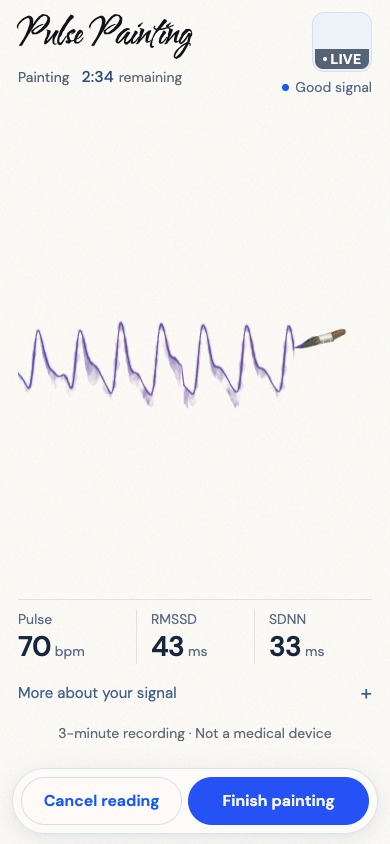
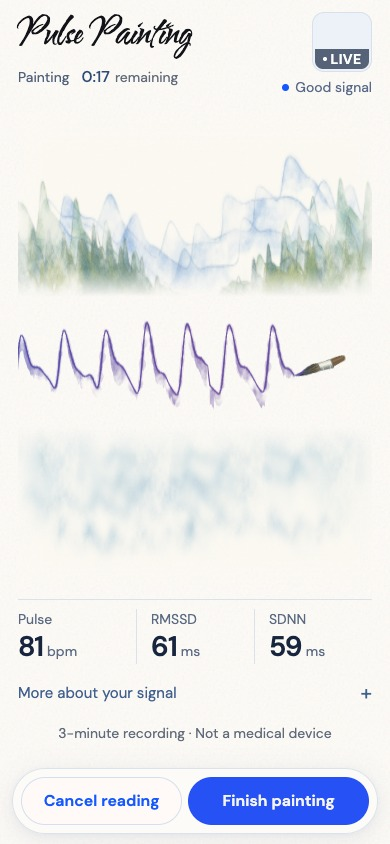
Document emerging landscape release and refreshed capture

diff --git a/docs/validation/emerging-landscape-2026-10-24.md b/docs/validation/emerging-landscape-2026-10-24.md
@@ -19,7 +19,8 @@ canvases, softens their scenic edges, and uses an immutable 256-square pigment
 mask before crossfading for 3.2 seconds. It does not render each stroke again.
 Canvas backing storage is bounded at 3,086,336 pixels. A browser-owned
 256-square pattern may retain another 65,536 pixels, beyond the unchanged
-canonical material budget. These bounds do not claim total browser/GPU memory. Pausing or hiding freezes the presentation; reduced motion uses
+canonical material budget. These bounds do not claim total browser/GPU memory.
+Pausing or hiding freezes the presentation; reduced motion uses
 immediate snapshots. Finishing fades away the atmosphere during the existing
 pullback, then reconstructs the same original measured points into the unchanged
 canonical artwork. Cancellation/disposal clears scheduled work and surfaces.
@@ -32,5 +33,137 @@ adapter, with mocked camera I/O. Stepped-clock tests prove presentation and
 provenance behavior, not timing. CPU throttling and WebKit are browser checks,
 not physical-phone, native-share, physiological, battery or thermal validation.
 
-Release verification is in progress; this document does not yet assert a
-production deployment.
+## Tested source
+
+The local runs below used commit
+`5b113185e3fafccd4c37e1f44ef2e1ed582cc6f2` and renderer SHA-256
[1 lines of base64/hex data omitted]
+The source and served `dist/landscape.js` hashes matched. Each evidence directory
+contains a `run-context.json` recording those identities. The build passed using
+Node v24.21.0 and the existing Three.js 0.186.1 dependency.
+
+Only the presentation in `createView` changed. The model, accepted-source
+adapter, terrain mapping and canonical renderer remain unchanged from the prior
+release. Background progress uses the warmed accepted source prefix; it may be
+ahead of the delayed foreground animation, but never ahead of accepted source.
+These checks do not establish the diagnostic accuracy of the input recording.
+
+## Full WebKit session: passed
+
+Evidence: `.dream-loop/emerging-landscape/final-safari-session/result.json`.
+The run completed on 2026-10-24 at 14:55:53 UTC using Playwright WebKit 26.6 with
+an iPhone 13 viewport and mocked camera I/O. Quiet Lake used seed 39293.
+
+- The automatic capture completed **180.342 credited seconds** in **210.081
+  wall-clock seconds**. It retained 33 accepted segments, 66 scene strokes and
+  157.21666666666647 usable seconds of artwork source.
+- A 4,000 ms camera-frame pause, a 2,500 ms main-thread stall and a 4,017 ms
+  simulated hidden period all recovered. Every interruption received **0 ms
+  first-resume credit**. Camera absence and hidden time added no held-time
+  credit; resumed measurement stayed within the fresh-frame timing tolerance.
+- The replay dropped 573 expired samples rather than replaying a stale backlog.
+  The public recording's final 60 seconds were repeated with shifted monotonic
+  timestamps to supply the test's documented extension beyond its original
+  200-second length. This is a test stimulus, not a new physiological recording.
+- Eight actual background discoveries and 1,492 fade samples were observed.
+  There were zero source regressions, invalid positions, future foreground
+  samples, future background samples or full-contrast scenic raster compositions
+  during capture. Cached canvas storage stayed at 3,086,336 pixels.
+- The final reveal took 5,821 ms and preserved both the accepted scene and the
+  stopped measurement clock. Canonical portrait pixel difference was zero.
+- The report agreed with the replay engine: 71 bpm, RMSSD 55.0 ms, SDNN 51.8 ms
+  and 193 beats. The metrics toggle changed only the metrics band; encoder and
+  renderer retry recovery passed. The report exported at 1200 × 5920 pixels
+  (3,770,837 bytes), and the report/graph checks passed at 320 px width.
+- There were zero page errors, console errors or first-party request failures.
+
+| WebKit measurement | FPS | p95 interval | Maximum interval |
+| --- | ---: | ---: | ---: |
+| Whole session, including deliberate stall | 58.23 | 19 ms | 2513 ms |
+| Whole session, excluding deliberate main-thread stall | 58.93 | 19 ms | 264 ms |
+| Active painting | 58.71 | 19 ms | 264 ms |
+| Final reveal | 59.93 | 18 ms | 31 ms |
+
+FPS is rounded to two decimals here; the evidence retains full precision. The
+single mid-session screenshot's readback cost remains included in the cadence.
+
+## Chrome performance: four cases passed
+
+Evidence: `.dream-loop/emerging-landscape/final-performance/results.json`.
+The cases ran sequentially in Chrome 155.0.8059.85 on an Apple M4 Mac, using a
+390 × 844 viewport at device scale factor 3. Each preloaded 160 seconds of the
+public recording, measured another 20 seconds of real-time delivery, and then
+measured the full reveal. This deliberately exercises a large accepted-source
+backlog; it does not reproduce a physical phone's camera, GPU or thermal load.
+
+| Requested and observed entry backend | CPU slowdown | Active capture FPS | Capture p95 | Reveal FPS | Reveal p95 |
+| --- | ---: | ---: | ---: | ---: | ---: |
+| WebGPU | 1× | 60.00 | 16.7 ms | 60.00 | 16.8 ms |
+| WebGL2 | 1× | 59.95 | 16.7 ms | 60.00 | 16.8 ms |
+| WebGPU | 4× | 59.75 | 16.7 ms | 54.12 | 33.3 ms |
+| WebGL2 | 4× | 59.70 | 16.8 ms | 52.57 | 33.4 ms |
+
+All four cases exercised actual background discoveries and crossfades while
+retaining the warmed accepted-source boundary and the 3,086,336-pixel cache
+bound. Each warmed 59 canonical strokes. Capture submission CPU p95 was
+0.4/0.5/0.8/0.8 ms respectively. At 4× slowdown, the longest capture intervals
+were 83.3 ms (WebGPU) and 99.9 ms (WebGL2); warming callbacks reached 89.8 ms and
+94.4 ms. The sustained capture stayed near 60 fps, while the final reconstruction
+fell to approximately 53–54 fps under CPU throttling. These are measured results,
+not a universal 60 fps guarantee or a measurement of GPU execution time.
+
+## Visual and release status
+
+The current visual review is **7.4/10**. Treat this as a released phone preview;
+the visual target has not been declared reached, and visual polish remains open.
+No physical-phone acceptance is claimed by the local browser results above.
+
+- Local full-session and four-case performance verification: passed.
+- Remote CI on the final release candidate: passed.
+- Hosted preview verification: passed.
+- Production deployment and production verification: passed.
+- Physical-phone capture, native sharing and user acceptance: pending.
+
+## Release evidence
+
+[PR #11](https://github.com/sontakey/pulsepainting/pull/11) merged as
+`7d6fb388971d3371b5422bdfbc3e0d448690ef01`; its tree is identical to tested head
+`5b113185e3fafccd4c37e1f44ef2e1ed582cc6f2`.
+[CI 40104454982](https://github.com/sontakey/pulsepainting/actions/runs/40104454982)
+passed the full `npm test` suite using the PR merge tree
+`dda63ffc12e9c684841ca07c9d27d2b5aa896386`, Node 24 and Playwright 1.63.0 on Linux.
+This includes all sixteen scenes in Chromium/WebKit, accepted-source provenance,
+fixed pigment and geometry, cancellation, hidden/reduced-motion behavior,
+canonical pixel parity, application/report, gallery, sharing and existing book
+compatibility. The new emergence suite observed eight actual discoveries in
+each engine and zero canonical pixel difference. The unmodified original
+ThreeUI arrow-pointer limitation remains documented by its existing suite;
+the adapted/public book controls passed.
+
+The source model/mapping and canonical renderer are unchanged. Regeneration
+confirmed all 49 checked-in gallery images are byte-identical. The gallery
+manifest's source-renderer hash was updated for the new capture presentation.
+
+Preview `dpl_7qF7wiNqpaPADzXvKYYHMidX4utD` was READY at
+`https://pulsepainting-huyv484ia-sontakeys-projects.vercel.app/`.
+All 107 files matched the frozen build at `2026-10-24T14:55:08.752Z`.
+Protected-preview Chromium/WebKit checks at 390px and 1440px passed at
+`2026-10-24T14:59:24.860Z`. They exercised real read-only gallery/community data,
+prepared sharing, lazy images and responsive layouts with no page/HTTP errors.
+Closing image views/contexts cancelled outstanding preview requests; these
+were separate from successful image decoding and sharing hash checks.
+
+Production `dpl_Ep6WeXRWFz6jMhjWAfKvbbZZafJL` is READY for the merged source at
+`https://www.pulsepainting.com/`. All 107 public files matched the tested build
+at `2026-10-24T15:06:27.083Z`; the apex returned 308 to www. Anonymous Chromium
+and WebKit checks at 390px and 1440px passed at `2026-10-24T15:06:38.735Z`, with
+no page/HTTP errors or public writes. Image requests cancelled when their views
+closed were recorded separately. No production QA paintings were created.
+
+Evidence is in `preview-deployment.json`, `preview-assets.json`,
+`preview-browser/results.json`, `production-deployment.json`,
+`production-assets.json` and `production-browser/results.json` under the ignored
+development evidence directory. The refreshed README capture is an actual-app
+accelerated composition screenshot; its exact scope and hashes are in
+`docs/media/README.md`. Later documentation-only deployments may have different
+IDs while serving the same verified runtime. npm 0.3.1 remains unpublished.

diff --git a/README.md b/README.md
@@ -4,17 +4,17 @@ Your pulse, made into a place.
 
 > Live at [pulsepainting.com](https://www.pulsepainting.com/): sixteen pulse-derived
 > watercolor landscapes, crisp measured pulse strokes, a pointed brush and soft
-> pigment fixed to the paper, a continuous recording view, and shareable artwork.
+> pigment fixed to the paper, a gradually emerging background, and shareable artwork.
 > Browser replay and deployed-asset checks passed; physical-phone validation remains separate.
-> See [current release verification](docs/validation/continuous-brush-2026-10-23.md)
-> and [painting performance](docs/validation/continuous-brush-2026-10-23.md).
+> See [current release verification](docs/validation/emerging-landscape-2026-10-24.md)
+> and [painting performance](docs/validation/emerging-landscape-2026-10-24.md).
 > The [mobile gallery](https://www.pulsepainting.com/#landscapes) is now live too;
 > see [mobile verification](docs/validation/mobile-gallery-2026-10-23.md).
 > Community publishing and artwork sharing are live;
 > see [sharing release checks](docs/validation/community-sharing-2026-10-23.md).
 > Existing sketchbook links remain supported; see [recipient-page checks](docs/validation/shareable-sketchbooks-2026-10-23.md).
 
-Pulse Painting is a three-minute phone-camera capture experience by [ChatPPG](https://chatppg.com), powered by [ppg-js](https://github.com/sontakey/ppg-js). During recording, a pointed brush follows one continuous accepted pulse trace as paper moves beneath it. The line and its soft pigment stay together; scenery remains hidden. Finishing pulls back to the recorded strokes, then arranges those same measurements into one of sixteen landscapes, ready to share alongside an expandable HRV report.
+Pulse Painting is a three-minute phone-camera capture experience by [ChatPPG](https://chatppg.com), powered by [ppg-js](https://github.com/sontakey/ppg-js). During recording, a pointed brush follows one continuous accepted pulse trace as paper moves beneath it. The line and its soft pigment stay together while a faint landscape gradually emerges behind it. The scenery stays still, leaving clear paper around the live brush. Finishing pulls back to the recorded strokes, then arranges those same measurements into the full-strength landscape, ready to share alongside an expandable HRV report.
 
 Painting uses quality-approved five-second windows from the selected camera
 channel, so it follows the live measurements with a short buffer. Ordinary
@@ -22,13 +22,19 @@ verified window boundaries connect smoothly. Missing samples, rejected windows
 and explicit breaks remain pen lifts; decorative connections never add accepted
 data or recording time. The original waveform manuscript remains available.
 
+The background grows from accepted pulse data in quiet stages, roughly every
+twenty usable seconds after the first discovery. Occasional short captions mark
+visible new details. Signal interruptions pause that growth; existing
+colors and shapes stay in place. The finished painting retains its complete
+detail and stronger pigment for the final reveal.
+
 <p align="center">
   <img src="docs/media/pulse-painting-ready.jpg" width="230" alt="Pulse Painting phone capture instructions">
-  <img src="docs/media/pulse-painting-capture.jpg" width="230" alt="Continuous measured pulse brush, live metrics, and floating capture controls">
+  <img src="docs/media/pulse-painting-capture.jpg" width="230" alt="Crisp measured pulse brush with a faint emerging landscape, live metrics, and floating capture controls">
   <img src="docs/media/pulse-painting-report.jpg" width="230" alt="Shareable Pulse Painting artwork and report">
 </p>
 
-The capture screenshot shows the compact LIVE/signal header and crisp pulse brush with forty seconds of the public recording preloaded through the actual app. The report shows the framed Glacial fjord keepsake, with summary metrics calculated from the public recording. Both use browser replay; see [capture provenance](docs/media/README.md). They are not physical-phone measurements or session benchmarks.
+The capture screenshot shows the actual app with its crisp pulse brush and pale emerging landscape. The public recording was fed through the real signal engine in one accelerated chunk, yielding 153.85 usable seconds; the foreground animation continued at normal speed. This is a composition capture, not a three-minute wall-clock session. The report shows the framed Glacial fjord keepsake, with summary metrics calculated from the public recording. Both use browser replay; see [capture provenance](docs/media/README.md). They are not physical-phone measurements or performance benchmarks.
 
 The primary destination is [pulsepainting.com](https://www.pulsepainting.com/), a separate Vercel project connected to this repository. The apex domain redirects to www. The simple library demo remains at [ChatPPG](https://chatppg.com/ppg-js-demo). Release and public verification status are tracked in [HANDOFF.md](HANDOFF.md).
 
@@ -151,9 +157,9 @@ private export and example gallery work without these credentials.
 ## What is implemented
 
 - Sixteen seeded landscape families made from accepted waveform paths, with curved terrain, flowing brush strokes and within-stroke gradients. Artistic mapping preserves the original samples; the original manuscript and computed report remain unchanged.
-- During capture, a fine pulse contour follows the recording's actual time and value on a steady baseline. A pointed brush lays down permanent textured pigment on quiet paper. Scenery appears only after recording, when the measured strokes reconstruct the landscape. This treatment applies to all sixteen families.
+- During capture, a fine pulse contour follows the recording's actual time and value on a steady baseline. A pointed brush lays down permanent textured pigment while a faint, stationary preview of the accepted landscape develops around a clear foreground. Brief captions mark new details. This treatment applies to all sixteen families.
 - Density based on usable recorded time: sparse sessions keep open paper; longer sessions fill interleaved slots without moving earlier strokes.
-- A close-up artwork camera and a continuous zoom-out reveal of the same accumulated painting. Cached layers keep the main thread available for capture.
+- On finish, the view pulls back along the recorded pulse paper, then reconstructs those same measured strokes into the complete landscape at full pigment strength. Cached layers keep the main thread available for capture.
 - Optional WebGPU/WebGL2 painted entry transitions and an independent Canvas2D landscape compositor.
 - Placement coaching, a small live finger preview, real-time pulse/RMSSD/SDNN, and floating mobile controls.
 - Report charts, a 1080 × 1350 shareable artwork, native file sharing with download fallback, and optional metrics on the artwork.
@@ -174,9 +180,14 @@ The temporary pinned browser artifact in [`vendor/ppg-js/0.3.1`](vendor/ppg-js/0
 
 ## Verification
 
+[The current verification record](docs/validation/emerging-landscape-2026-10-24.md)
+separates visual replay, source-data checks, full sessions and performance evidence.
+Deployment status remains in [HANDOFF.md](HANDOFF.md).
+
 ```sh
 npm test
 npm run test:safari-session
+npm run test:emergence
 npm run test:paint-performance
 npm run test:qr
 npm run test:gallery
@@ -198,7 +209,7 @@ The QR suite uses Python OpenCV, Pillow, and NumPy for bounded image perturbatio
 ## Source map
 
 - `app/`: ready, placement, capture, report, export, local fonts, and static QR assets.
-- `app/landscape.js`: scene planning, accepted-source coverage, pigment rendering, continuous pulse paper and the final reconstruction.
+- `app/landscape.js`: scene planning, accepted-source coverage, pigment rendering, continuous pulse paper, the staged background and final reconstruction.
 - `app/portrait.js`: same-scene export and native sharing with download fallback.
 - `app/share-sheet.js` and `app/community.js`: private sharing, optional publication, public browsing, removal and reporting.
 - `api/` and `server/`: persistent community endpoints, script-free painting pages and public sketchbook pages; `db/` records schema and operator procedures.

diff --git a/docs/media/README.md b/docs/media/README.md
@@ -1,7 +1,8 @@
 # Pulse Painting screenshots
 
 These are direct browser captures of the actual static app. The capture image
-was refreshed on October 23, 2026 for continuous source-time ink on quiet paper. The report and sharing
+was refreshed on October 24, 2026 for continuous source-time ink with a slowly
+emerging landscape behind it. The report and sharing
 images show the October 23 framed keepsake card. The desktop image retains the
 October 22 foreground release. Ready and QR retain their
 unchanged first-release images.
@@ -10,26 +11,42 @@ described below. Its release was subsequently verified on the public site;
 the screenshot itself was captured locally.
 See [HANDOFF.md](../../HANDOFF.md) for deployment status.
 
-## Continuous brush capture
+## Emerging landscape capture
 
 `pulse-painting-capture.jpg` is the direct native-browser JPEG (quality 92) from
-`2026-10-24T04:01:53.583Z` (October 23 locally). Chrome 155.0.8059.85 through
-Playwright captured the actual app at 390 × 844 CSS pixels, DPR 1, with normal
-motion and loaded fonts. No image pixels or UI values were edited.
+`2026-10-24T14:50:33.737Z`. Chrome 155.0.8059.85 through Playwright captured the
+actual app at 390 × 844 CSS pixels, DPR 1, with normal motion and loaded fonts.
+The JPEG was copied byte-for-byte; no image pixels or UI values were edited.
 
-The public recording was preloaded through forty seconds using the real signal
-engine, acceptance adapter and app callbacks, followed by six seconds of
-wall-clock replay. The screenshot shows a continuous measured PPG line on paper,
-a pointed brush and permanent pigment; landscape geometry remains hidden.
-The countdown is 2:34; computed values are 70 bpm, 43 ms RMSSD and 33 ms SDNN.
-Camera I/O is mocked, so the thumbnail is empty. No samples were duplicated and
-no metrics were substituted. There were no runtime errors.
+This is an **accelerated-source composition capture**, not a three-minute
+wall-clock recording. The public fixture was fed in one chunk through 181.989
+recorded seconds using the real signal engine, acceptance adapter and app
+callbacks. Its 31 accepted segments supply 153.85 usable seconds and 61 terrain
+strokes in Quiet Lake, seed 39293. The foreground continued at normal animation
+speed and had drawn 11.70 seconds when this frame was captured. The screenshot
+shows a continuous measured PPG line, a pointed brush and permanent pigment,
+with a faint landscape copied from the same accepted source geometry. Its
+position and pigment texture remain fixed while newly accepted details appear.
+
+The actual countdown is **0:17**; computed values are **81 bpm, 61 ms RMSSD and
+59 ms SDNN**. Camera I/O is mocked, so the thumbnail is empty. No samples were
+duplicated and no metrics were substituted. There were no runtime errors or
+horizontal overflow, and previously painted source paths remained unchanged.
+The selected frame shows the settled background after the caption has faded.
+A companion native PNG captured **“A place that is yours alone.”** at
+`2026-10-24T14:50:28.565Z`, while the new wash was appearing.
 
 Source and distribution renderer SHA-256:
[1 lines of base64/hex data omitted]
-The native JPEG, full motion recording and metadata are in ignored
-`.dream-loop/continuous-brush/pass4/`. This is presentation evidence, separate
-from [full-session and performance checks](../validation/continuous-brush-2026-10-23.md).
[1 lines of base64/hex data omitted]
+Source and distribution landscape stylesheet SHA-256:
[1 lines of base64/hex data omitted]
+Public fixture SHA-256:
[1 lines of base64/hex data omitted]
+
+The native JPEG, caption PNG, motion clip and exact metadata are in ignored
+`.dream-loop/emerging-landscape/composition-pass6/`. This is browser presentation
+evidence, separate from [session and performance validation](../validation/emerging-landscape-2026-10-24.md),
+physical-phone testing, physiological-accuracy checks and native sharing.
 
 ## Earlier artwork images
 
@@ -181,7 +198,7 @@ social-post delivery or sustained frame-rate evidence.
[8 lines of base64/hex data omitted]

diff --git a/HANDOFF.md b/HANDOFF.md
@@ -1,6 +1,32 @@
 # Pulse Painting handoff
 
-## Current production release: continuous pulse brush
+## Current production release: emerging landscape
+
+A pale version of the accepted-data landscape gradually develops behind the
+continuous pulse brush. Its composition and pigment stay fixed around a clear
+foreground corridor. Brief captions accompany real additions; elapsed time,
+rejected samples and signal gaps cannot invent more detail. Finishing removes
+the ambient view and preserves the existing full-strength reconstruction.
+All sixteen completed landscapes, gallery images, reports and exports remain
+unchanged. This is a released phone-preview improvement; the visual review
+reached 7.4/10 and further watercolor texture polish remains open.
+
+PR #11 merged as `7d6fb388971d3371b5422bdfbc3e0d448690ef01` after full Linux CI
+`40104454982` passed tested source `5b113185e3fafccd4c37e1f44ef2e1ed582cc6f2`.
+Production `dpl_Ep6WeXRWFz6jMhjWAfKvbbZZafJL` is READY at https://www.pulsepainting.com/.
+At `2026-10-24T15:06:27.083Z`, all 107 public files matched the tested build;
+anonymous Chromium/WebKit checks at 390px and 1440px passed at
+`2026-10-24T15:06:38.735Z` without public writes or page/HTTP errors.
+
+The full three-minute WebKit replay passed all interruption recoveries,
+report/export and exact artwork parity: 58.71 fps capture and 59.93 fps reveal.
+Chrome measured about 60 fps normally; 4× CPU stress retained 59.70–59.75 fps
+capture and 52.57–54.12 fps reveal. These are browser checks, not physical-phone,
+thermal or native-share validation. See `docs/validation/emerging-landscape-2026-10-24.md`.
+Later documentation commits may advance deployment IDs without changing runtime
+bytes. npm publication remains pending.
+
+## Previous production release: continuous pulse brush
 
 Recording draws one continuous accepted PPG trace across quiet moving paper.
 A pointed brush deposits crisp ink and permanent soft pigment; no landscape is
